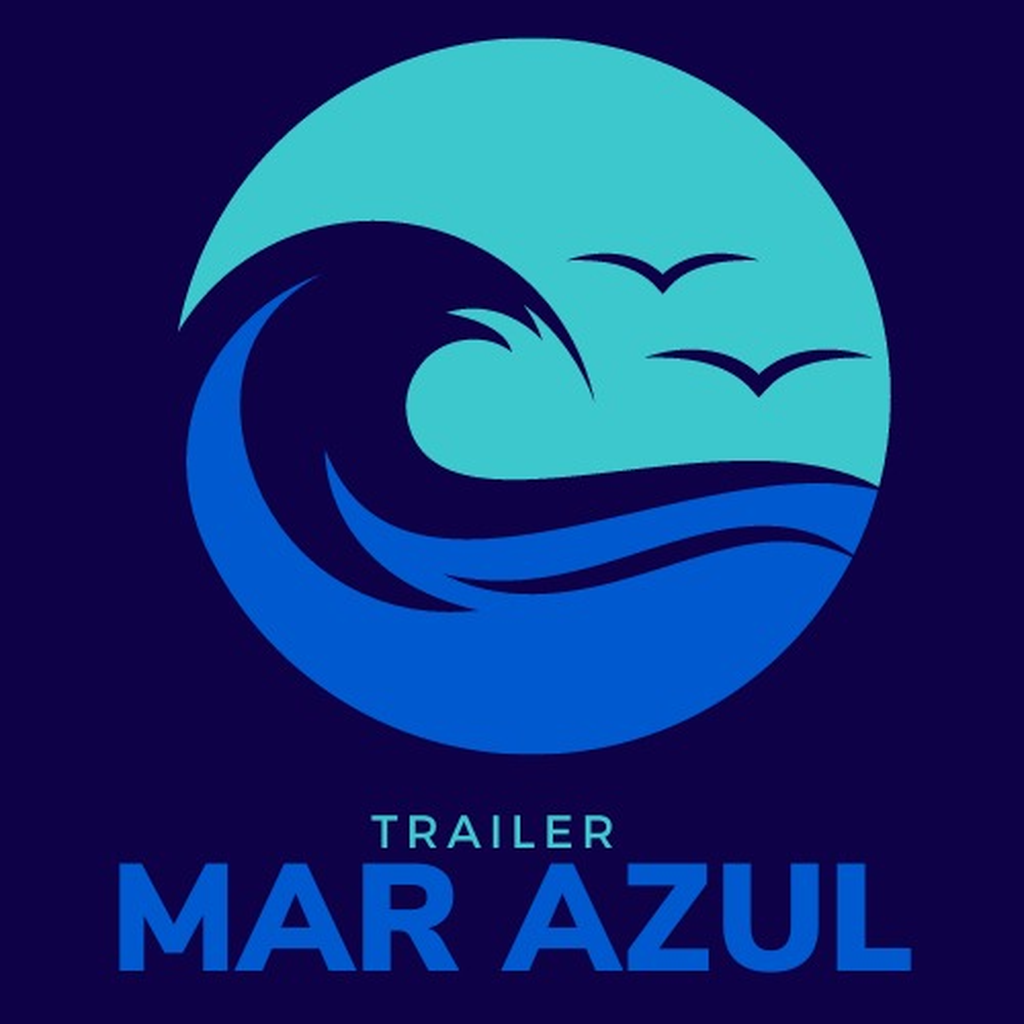
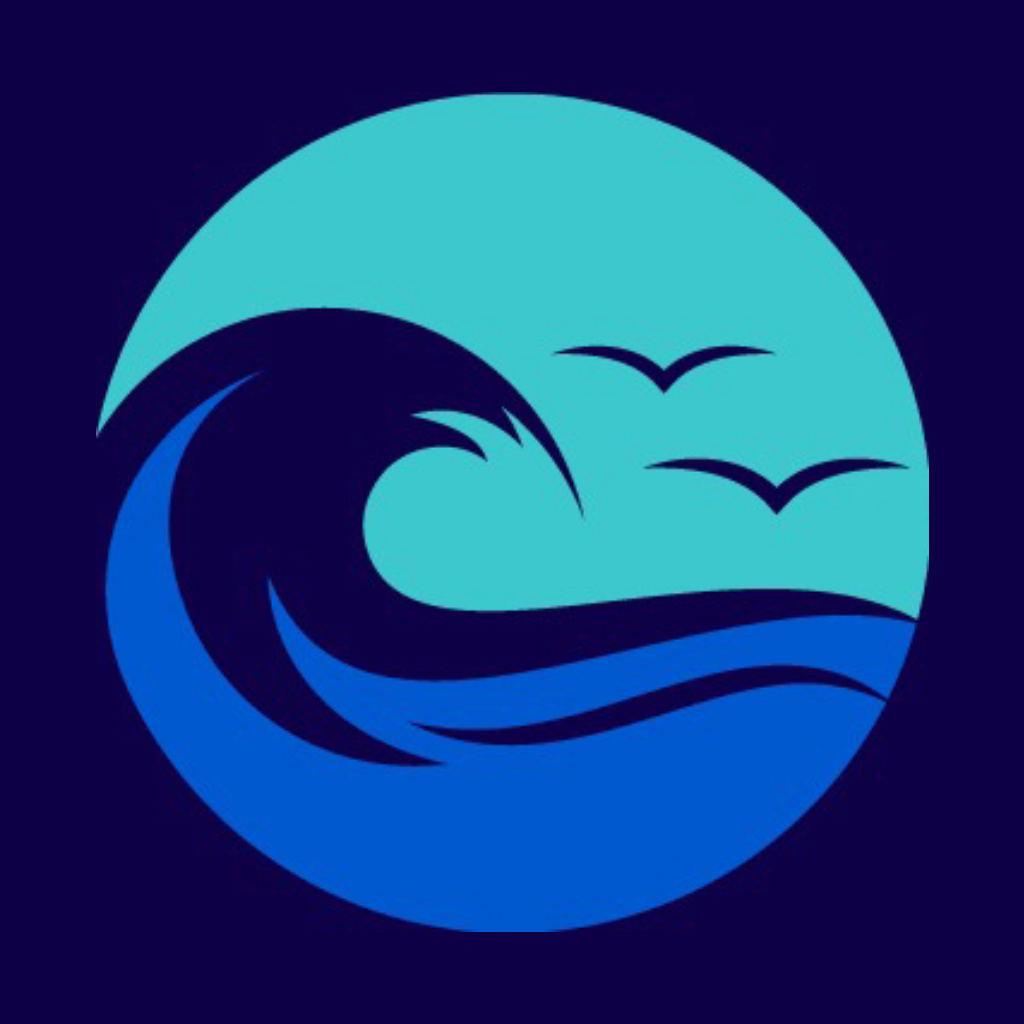
Rebrand app to Trailer Mar Azul and fix silent auth-listener errors
- Replace app icon, favicon, Android adaptive icon layers and PWA
  icons with artwork derived from the Trailer Mar Azul logo.
- Rename the app everywhere it's user-facing: app.json, PWA
  manifest/index.html, drawer footer, Privacy Policy/Terms, README.
- Redesign the login screen hero: swap the old umbrella icon +
  "QUIOSQUE PDV" wordmark for the actual logo badge and a "TRAILER /
  MAR AZUL" wordmark in the brand's colors, keeping the existing
  responsive/no-scroll layout for short phone screens.
- Wrap initAuthListener's Firestore read in try/catch so a
  permission-denied or offline error can't leave the session stuck
  in "loading" via an unhandled promise rejection.

diff --git a/src/screens/LoginScreen.tsx b/src/screens/LoginScreen.tsx
@@ -1,9 +1,9 @@
 import { Ionicons } from '@expo/vector-icons';
-import { LinearGradient } from 'expo-linear-gradient';
 import React, { useEffect, useRef, useState } from 'react';
 import {
   Animated,
   Easing,
+  Image,
   KeyboardAvoidingView,
   Modal,
   Platform,
@@ -18,10 +18,8 @@ import {
 } from 'react-native';
 import { SafeAreaView } from 'react-native-safe-area-context';
 import { AnimatedPressable } from '../components/AnimatedPressable';
-import { BeachUmbrellaIcon } from '../components/BeachUmbrellaIcon';
 import { LegalDocument } from '../components/LegalDocument';
 import { ReceiptTornEdge } from '../components/ReceiptTornEdge';
-import { WaveDivider } from '../components/WaveDivider';
 import { PRIVACY_POLICY, TERMS_OF_USE } from '../content/legal';
 import { useAuthStore } from '../context/useAuthStore';
 import { useResponsiveContent } from '../hooks/useResponsiveContent';
@@ -36,13 +34,11 @@ const AWNING_COLORS = [
   colors.surface,
 ];
 
-// Mesma paleta "sol se pondo sobre o mar" do ícone do app e do cartão "Caixa
-// do Dia" do Dashboard — reaproveitada aqui para a ilustração de boas-vindas
-// ficar visualmente coerente com o resto do produto.
+// Cores extraídas do próprio logo (ver assets/icon.png), só usadas aqui na
+// tela de login — o resto do app mantém o teal/areia do tema.
 const HERO = {
-  gradientStart: '#10938B',
-  gradientEnd: '#0A5551',
-  ambientGlow: 'rgba(255,207,143,0.3)',
+  shadowColor: '#0E0047',
+  brandBlue: '#1F7BFF',
 };
 
 const FEATURES: { icon: keyof typeof Ionicons.glyphMap; label: string }[] = [
@@ -240,30 +236,21 @@ export function LoginScreen() {
           keyboardShouldPersistTaps="handled"
         >
           <Animated.View style={[styles.brandWrap, isCompact && styles.brandWrapCompact, brandStyle]}>
-            <View style={[styles.heroBanner, { height: heroHeight }]}>
-              <LinearGradient
-                colors={[HERO.gradientStart, HERO.gradientEnd]}
-                start={{ x: 0.1, y: 0 }}
-                end={{ x: 0.9, y: 1 }}
-                style={StyleSheet.absoluteFillObject}
+            <Animated.View
+              style={[
+                styles.logoBadge,
+                { width: heroHeight, height: heroHeight, transform: [{ translateY: heroFloatY }] },
+              ]}
+            >
+              <Image
+                source={require('../../assets/icon.png')}
+                style={styles.logoImage}
+                resizeMode="cover"
               />
-              <View style={styles.heroAmbientGlow} pointerEvents="none" />
-              <View style={styles.heroContent} pointerEvents="none">
-                <Animated.View style={{ transform: [{ translateY: heroFloatY }] }}>
-                  <BeachUmbrellaIcon size={isCompact ? 40 : 60} color={colors.white} />
-                </Animated.View>
-              </View>
-              <View style={styles.heroWaveWrap} pointerEvents="none">
-                <WaveDivider fill={colors.background} stroke="rgba(255,255,255,0.45)" />
-              </View>
-            </View>
+            </Animated.View>
 
-            <Text style={styles.brandTop}>QUIOSQUE</Text>
-            <View style={styles.brandBottomRow}>
-              <View style={styles.brandLine} />
-              <Text style={styles.brandBottom}>PDV</Text>
-              <View style={styles.brandLine} />
-            </View>
+            <Text style={styles.brandTiny}>TRAILER</Text>
+            <Text style={styles.brandBig}>MAR AZUL</Text>
 
             <Animated.View style={{ opacity: introFade, alignItems: 'center' }}>
               <Text style={styles.brandSub}>{welcome.title}</Text>
@@ -533,61 +520,31 @@ const styles = StyleSheet.create({
   brandWrapCompact: {
     marginBottom: spacing.lg,
   },
-  heroBanner: {
-    position: 'relative',
-    width: '100%',
+  logoBadge: {
     borderRadius: radius.xxl,
     overflow: 'hidden',
-    shadowColor: HERO.gradientEnd,
+    shadowColor: HERO.shadowColor,
     shadowOpacity: 0.3,
     shadowRadius: 16,
     shadowOffset: { width: 0, height: 8 },
     elevation: 6,
     marginBottom: spacing.md,
   },
-  heroAmbientGlow: {
-    position: 'absolute',
-    top: -40,
-    right: -30,
-    width: 140,
-    height: 140,
-    borderRadius: 70,
-    backgroundColor: HERO.ambientGlow,
+  logoImage: {
+    width: '100%',
+    height: '100%',
   },
-  heroContent: {
-    flex: 1,
-    alignItems: 'center',
-    justifyContent: 'center',
+  brandTiny: {
+    ...typography.label,
+    color: colors.emerald,
+    letterSpacing: 4,
   },
-  heroWaveWrap: {
-    position: 'absolute',
-    left: 0,
-    right: 0,
-    bottom: 0,
-    height: 22,
-  },
-  brandTop: {
+  brandBig: {
     ...typography.display,
     fontSize: 32,
-    color: colors.textPrimary,
-    letterSpacing: -1,
-  },
-  brandBottomRow: {
-    flexDirection: 'row',
-    alignItems: 'center',
-    gap: spacing.sm,
+    color: HERO.brandBlue,
+    letterSpacing: 1,
     marginTop: 2,
-  },
-  brandLine: {
-    width: 36,
-    height: 1,
-    backgroundColor: colors.borderLight,
-  },
-  brandBottom: {
-    ...typography.display,
-    fontSize: 32,
-    color: colors.sand,
-    letterSpacing: 2,
   },
   brandSub: {
     ...typography.h3,

diff --git a/src/content/legal.ts b/src/content/legal.ts
@@ -12,9 +12,9 @@ export interface LegalDoc {
 
 export const PRIVACY_POLICY: LegalDoc = {
   title: 'Política de Privacidade',
-  updatedAt: '29 de julho de 2026',
+  updatedAt: '1 de agosto de 2026',
   intro:
-    'Esta política explica quais dados o Quiosque PDV coleta, para que servem, por quanto tempo ficam guardados e quais direitos você tem sobre eles, em conformidade com a Lei Geral de Proteção de Dados (LGPD - Lei 13.709/2018).',
+    'Esta política explica quais dados o Trailer Mar Azul coleta, para que servem, por quanto tempo ficam guardados e quais direitos você tem sobre eles, em conformidade com a Lei Geral de Proteção de Dados (LGPD - Lei 13.709/2018).',
   sections: [
     {
       title: '1. Dados que coletamos',
@@ -58,14 +58,14 @@ export const PRIVACY_POLICY: LegalDoc = {
 
 export const TERMS_OF_USE: LegalDoc = {
   title: 'Termo de Uso',
-  updatedAt: '29 de julho de 2026',
+  updatedAt: '1 de agosto de 2026',
   intro:
-    'Ao criar uma conta ou usar o Quiosque PDV, você concorda com as condições descritas abaixo. Leia com atenção antes de continuar.',
+    'Ao criar uma conta ou usar o Trailer Mar Azul, você concorda com as condições descritas abaixo. Leia com atenção antes de continuar.',
   sections: [
     {
       title: '1. Sobre o serviço',
       body:
-        'O Quiosque PDV é um sistema de gestão de comandas e vendas voltado a quiosques, bares e estabelecimentos similares, permitindo abrir mesas, lançar itens de um cardápio, controlar pagamentos e acompanhar relatórios do dia a dia do negócio.',
+        'O Trailer Mar Azul é um sistema de gestão de comandas e vendas voltado a quiosques, bares e estabelecimentos similares, permitindo abrir mesas, lançar itens de um cardápio, controlar pagamentos e acompanhar relatórios do dia a dia do negócio.',
     },
     {
       title: '2. Cadastro e responsabilidade pela conta',

diff --git a/src/context/useAuthStore.ts b/src/context/useAuthStore.ts
@@ -355,12 +355,20 @@ export function initAuthListener(): Unsubscribe {
       useAuthStore.setState({ status: 'unauthenticated', user: null });
       return;
     }
-    const pointer = await fetchPointerWithRetry(firebaseUser.uid);
-    if (!pointer) {
-      await signOut(auth);
+    try {
+      const pointer = await fetchPointerWithRetry(firebaseUser.uid);
+      if (!pointer) {
+        await signOut(auth);
+        useAuthStore.setState({ status: 'unauthenticated', user: null });
+        return;
+      }
+      watchProfile(firebaseUser.uid, pointer.orgId);
+    } catch (err) {
+      // Sem isso, um erro aqui (ex.: permissão negada, sem conexão) virava
+      // uma rejeição de promise não tratada e deixava a sessão travada em
+      // "loading" para sempre, sem cair de volta no login.
+      console.warn('[auth] listener falhou ao buscar ponteiro do usuário', err);
       useAuthStore.setState({ status: 'unauthenticated', user: null });
-      return;
     }
-    watchProfile(firebaseUser.uid, pointer.orgId);
   });
 }

diff --git a/public/index.html b/public/index.html
@@ -7,7 +7,7 @@
       name="viewport"
       content="width=device-width, initial-scale=1, maximum-scale=1, viewport-fit=cover, user-scalable=no"
     />
-    <title>Quiosque PDV</title>
+    <title>Trailer Mar Azul</title>
 
     <!-- PWA (theme-color e favicon vêm de app.json > web, injetados automaticamente pelo Expo) -->
     <link rel="manifest" href="/manifest.json" />
@@ -16,7 +16,7 @@
     <!-- iOS: permite abrir em tela cheia a partir da tela de início -->
     <meta name="apple-mobile-web-app-capable" content="yes" />
     <meta name="apple-mobile-web-app-status-bar-style" content="black-translucent" />
-    <meta name="apple-mobile-web-app-title" content="Quiosque PDV" />
+    <meta name="apple-mobile-web-app-title" content="Mar Azul" />
     <link rel="apple-touch-icon" href="/apple-touch-icon.png" />
 
     <!-- Outros navegadores com suporte a PWA (Android/Chrome) -->

diff --git a/src/navigation/AppDrawerContent.tsx b/src/navigation/AppDrawerContent.tsx
@@ -322,7 +322,7 @@ export function AppDrawerContent({ navigation, state }: DrawerContentComponentPr
             </View>
             <Text style={styles.logoutText}>Sair</Text>
           </AnimatedPressable>
-          <Text style={styles.version}>Quiosque PDV</Text>
+          <Text style={styles.version}>Trailer Mar Azul</Text>
         </View>
       </SafeAreaView>
     </View>

diff --git a/README.md b/README.md
@@ -1,6 +1,6 @@
-# Quiosque PDV
+# Trailer Mar Azul — PDV
 
-Aplicativo de Ponto de Venda (PDV) para quiosque, otimizado para celular, com dashboard estilo fintech (dark, grafite + azul neon + verde esmeralda). Construído com React Native + Expo (Managed Workflow) e TypeScript.
+Aplicativo de Ponto de Venda (PDV) para o Trailer Mar Azul, otimizado para celular, com dashboard estilo fintech (dark, grafite + azul neon + verde esmeralda). Construído com React Native + Expo (Managed Workflow) e TypeScript.
 
 O cardápio é estático/mockado por enquanto (`src/data/menu.ts`) — pensado para futuramente virar editável.
 
